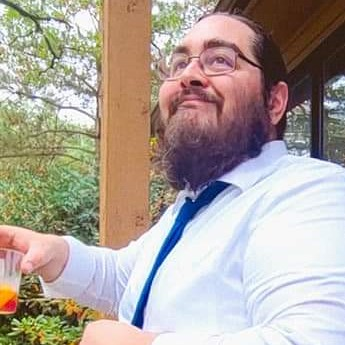
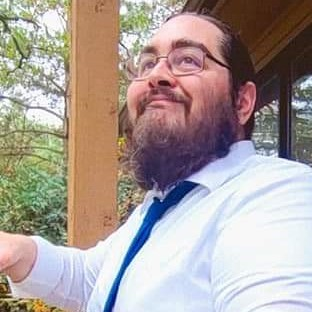
design touch ups before adding flexbox

diff --git a/index.html b/index.html
@@ -20,7 +20,7 @@
                         <a href="#about-me">About Me</a>
                     </li>
                     <li>
-                        <a href="#site-links">My Work</a>
+                        <a href="#my-work">My Work</a>
                     </li>
                     <li>
                         <a href="#contact-me">Contact Me</a>
@@ -40,11 +40,16 @@
         <!-- about me start-->
         <article id="about-me" class="about">
             <h2>About Me</h2>
-            <p>
-                Lorem ipsum dolor sit amet consectetur adipisicing elit. Quibusdam praesentium eligendi maxime
-                id repudiandae! Eius, hic porro? Eveniet vero repudiandae quidem odio perferendis modi. Voluptatum
-                quos sunt quia et ut.
-            </p>
+            <div>
+                <img src="./assets/images/profile-photo.jpg" />
+            </div>
+            <div>
+                <p>
+                    Lorem ipsum dolor sit amet consectetur adipisicing elit. Quibusdam praesentium eligendi maxime
+                    id repudiandae! Eius, hic porro? Eveniet vero repudiandae quidem odio perferendis modi. Voluptatum
+                    quos sunt quia et ut.
+                </p>
+            </div>
         </article>
         <!-- about me end -->
 
@@ -71,7 +76,7 @@
 
         <!-- footer/contact me start -->
         <footer id="contact-me" class="contact">
-            <h2>Contact Me</h2>
+            <h2>Contact</h2>
             <address>
                 <ul>
                     <li>

diff --git a/assets/css/style.css b/assets/css/style.css
@@ -62,7 +62,7 @@ header nav ul li a {
 
 /* hero/jumbotron styles start */
 .hero {
-    height: 100%;
+    height: 400px;
     width: 100%;
     background-size: cover;
     background-position: center;
@@ -72,14 +72,14 @@ header nav ul li a {
 /*  about me styles start */
 .about {
     background-color: var(--secondary-color);
-    color: var(--primary-color);
+    color: var(--tertiary-color);
     margin-top: -5px;
     text-align: center;
 }
 
 .about h2 {
     font-size: 48px;
-    border-bottom: 3px solid var(--tertiary-color);
+    border-bottom: 3px solid var(--primary-color);
     padding: 20px 0;
     margin: 0 auto;
     width: 50%;
@@ -95,14 +95,14 @@ header nav ul li a {
 
 /* my work styles start */
 .projects {
-    background-color: var(--primary-color);
+    background-color: var(--tertiary-color);
     color: var(--secondary-color);
     text-align: center;
 }
 
 .projects h2 {
     font-size: 48px;
-    border-bottom: 3px solid var(--tertiary-color);
+    border-bottom: 3px solid var(--primary-color);
     padding: 20px 0;
     margin: 0 auto;
     width: 50%;
@@ -111,8 +111,8 @@ header nav ul li a {
 
 /* footer/contact me styles start */
 .contact {
-    background-color: var(--tertiary-color);
-    color: var(--primary-color);
+    background-color: var(--primary-color);
+    color: var(--secondary-color);
     text-align: center;
 }
 
